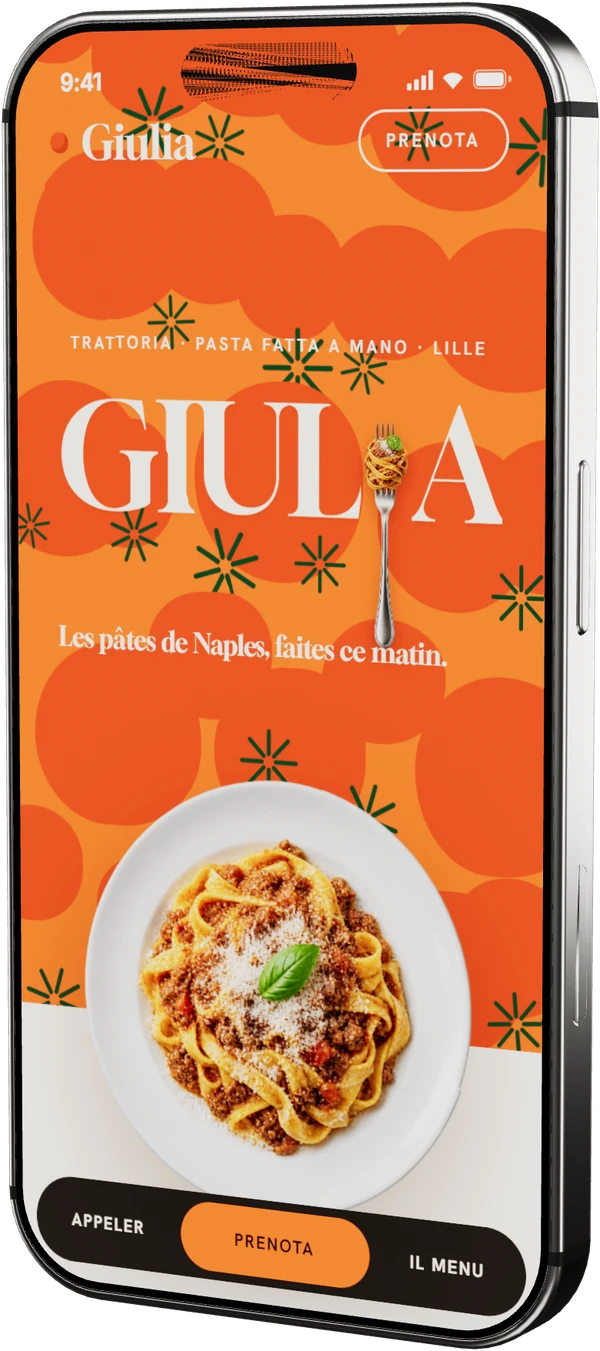
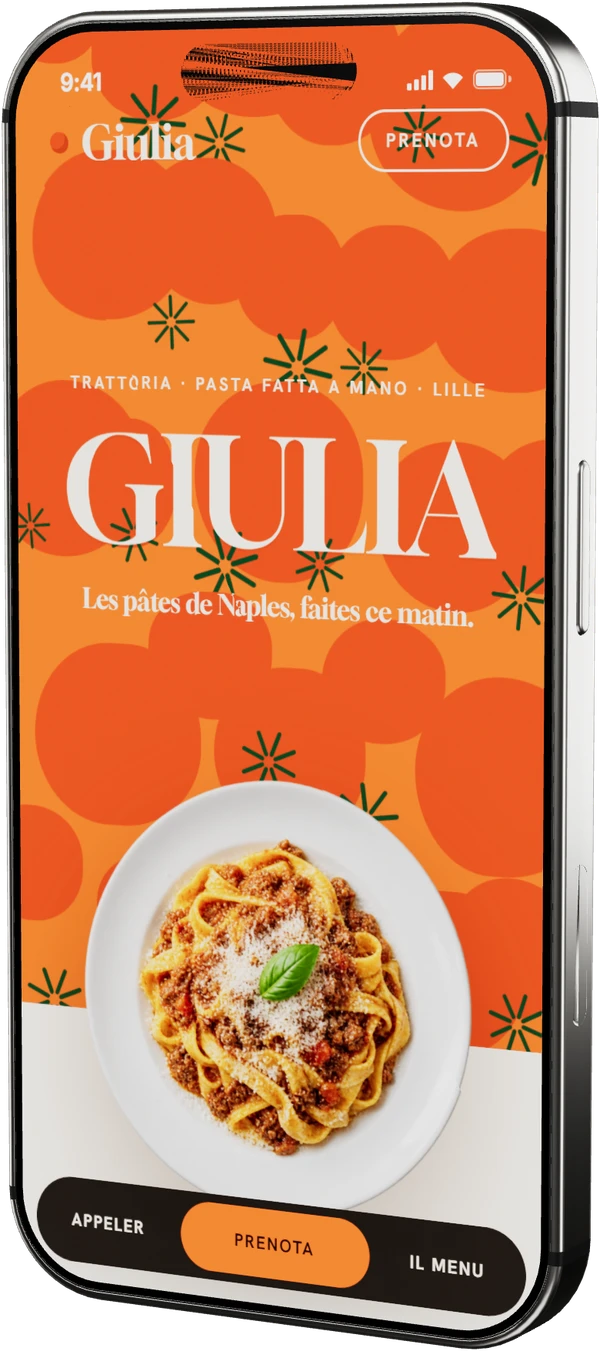
Giulia : GIULIA sans fourchette, l'assiette tourne en continu au téléphone et dans l'iPhone du site

diff --git a/demos/trattoria/index.html b/demos/trattoria/index.html
@@ -57,11 +57,7 @@
   .affiche-in { text-align: center; position: relative; }
   .affiche .sur { display: block; margin-bottom: clamp(22px, 3.4vw, 44px); }
   .affiche h1 { font-size: clamp(96px, 23vw, 380px); line-height: .82; text-transform: uppercase; letter-spacing: -.02em; color: var(--crema); text-shadow: 0 2px 0 rgba(0,0,0,.04); }
-  .affiche .sous { display: block; margin-top: 22px; font: 400 clamp(18px, 2vw, 26px)/1.3 var(--serif); text-align: left; padding-left: .06em; }
-  /* La fourchette fait le I : les pâtes enroulées au milieu des capitales (épaisseur d'un fût de lettre), les dents au-dessus, le manche sous la ligne */
-  .forchetta { display: inline-block; position: relative; width: .34em; height: .82em; vertical-align: baseline; margin: 0 .02em; }
-  .forchetta img { position: absolute; left: 50%; bottom: -.86em; height: 1.5em; width: auto; max-width: none; transform: translateX(-50%); transform-origin: 50% 70%; filter: drop-shadow(0 .05em .06em rgba(60,20,0,.35)); will-change: transform; }
-  @media (max-width: 759px) { .affiche h1 { padding-bottom: .5em; } }
+  .affiche .sous { display: block; margin-top: 22px; font: 400 clamp(18px, 2vw, 26px)/1.3 var(--serif); }
   .coin { position: absolute; bottom: 30px; font: 500 11.5px/1.6 var(--sans); letter-spacing: .16em; text-transform: uppercase; color: var(--crema); }
   .coin.g { left: 28px; } .coin.d { right: 28px; text-align: right; }
   @media (max-width: 759px) { .coin { display: none; } .affiche { min-height: 78svh; padding: 110px 16px 36vw; } }
@@ -206,7 +202,7 @@
   <div class="motif" data-motif aria-hidden="true"></div>
   <div class="affiche-in">
     <span class="sur petit">Trattoria · Pasta fatta a mano · Lille</span>
-    <h1 data-lettres>Giul<span class="forchetta"><img src="assets/forchetta.webp" alt="I" width="420" height="1024"></span>a</h1>
+    <h1 data-lettres>Giulia</h1>
     <span class="sous">Les pâtes de Naples, faites ce matin.</span>
   </div>
   <div class="coin g">Mardi → dimanche<br>12 h – 14 h 30 · 19 h – 22 h 30</div>
@@ -367,7 +363,6 @@
     .from(hero.querySelectorAll('.motif .t'), { scale: 0, duration: 1.1, ease: 'back.out(1.6)', stagger: { each: .025, from: 'center' } }, 0)
     .from(hero.querySelectorAll('.motif .s'), { scale: 0, rotate: -120, duration: 1, ease: 'back.out(2)', stagger: { each: .03, from: 'random' } }, .3)
     .from('.affiche h1 .mot > span', { yPercent: 105, duration: 1.2, stagger: .06 }, .5)
-    .from('.forchetta img', { yPercent: -70, rotate: -28, autoAlpha: 0, duration: 1.5, ease: 'elastic.out(1, .55)' }, 1.15)
     .from('.affiche .sur, .affiche .sous, .coin', { autoAlpha: 0, y: 16, duration: .9, stagger: .08 }, 1)
     .from('.assiette img', { autoAlpha: 0, y: 120, rotate: -140, scale: .7, duration: 1.8, ease: 'power3.out' }, .6);
   /* Le basilic tourne doucement, les tomates respirent */
@@ -376,13 +371,13 @@
   /* La souris : le motif glisse selon sa profondeur, l'assiette s'incline */
   if (souris) {
     const couches = [...document.querySelectorAll('.affiche .motif i')].map(el => ({ x: gsap.quickTo(el, 'x', { duration: 1.2, ease: 'power2.out' }), y: gsap.quickTo(el, 'y', { duration: 1.2, ease: 'power2.out' }), z: +el.dataset.z }));
-    const rx = gsap.quickTo('.assiette', 'rotationX', { duration: 1, ease: 'power2.out' }), ry = gsap.quickTo('.assiette', 'rotationY', { duration: 1, ease: 'power2.out' }), rf = gsap.quickTo('.forchetta img', 'rotate', { duration: 1.2, ease: 'power2.out' });
-    addEventListener('pointermove', e => { const dx = e.clientX / innerWidth - .5, dy = e.clientY / innerHeight - .5; couches.forEach(c => { c.x(-dx * 40 * c.z); c.y(-dy * 30 * c.z); }); rx(-dy * 26); ry(dx * 30); rf(dx * 14); }, { passive: true });
+    const rx = gsap.quickTo('.assiette', 'rotationX', { duration: 1, ease: 'power2.out' }), ry = gsap.quickTo('.assiette', 'rotationY', { duration: 1, ease: 'power2.out' });
+    addEventListener('pointermove', e => { const dx = e.clientX / innerWidth - .5, dy = e.clientY / innerHeight - .5; couches.forEach(c => { c.x(-dx * 40 * c.z); c.y(-dy * 30 * c.z); }); rx(-dy * 26); ry(dx * 30); }, { passive: true });
   }
   /* En descendant : le nom s'éloigne, l'assiette tourne comme un disque */
   gsap.to('.affiche-in', { yPercent: -35, autoAlpha: .2, ease: 'none', scrollTrigger: { trigger: hero, start: 'top top', end: 'bottom top', scrub: true } });
-  gsap.to('.forchetta img', { yPercent: -45, rotate: 10, ease: 'none', scrollTrigger: { trigger: hero, start: 'top top', end: 'bottom top', scrub: true } });
-  gsap.to('.assiette img', { rotate: 220, ease: 'none', scrollTrigger: { trigger: hero, start: 'top top', end: () => '+=' + innerHeight * 1.8, scrub: .6 } });
+  if (souris && !embarque) gsap.to('.assiette img', { rotate: 220, ease: 'none', scrollTrigger: { trigger: hero, start: 'top top', end: () => '+=' + innerHeight * 1.8, scrub: .6 } });
+  else gsap.to('.assiette img', { rotate: '+=360', duration: 24, ease: 'none', repeat: -1, delay: 2.4 });
   gsap.to('.assiette', { y: () => -innerHeight * .12, scale: .84, ease: 'none', scrollTrigger: { trigger: '.citazione', start: 'top bottom', end: 'center top', scrub: true } });
   /* L'en-tête */
   /* Fellini : chaque mot prend la couleur au défilement */
